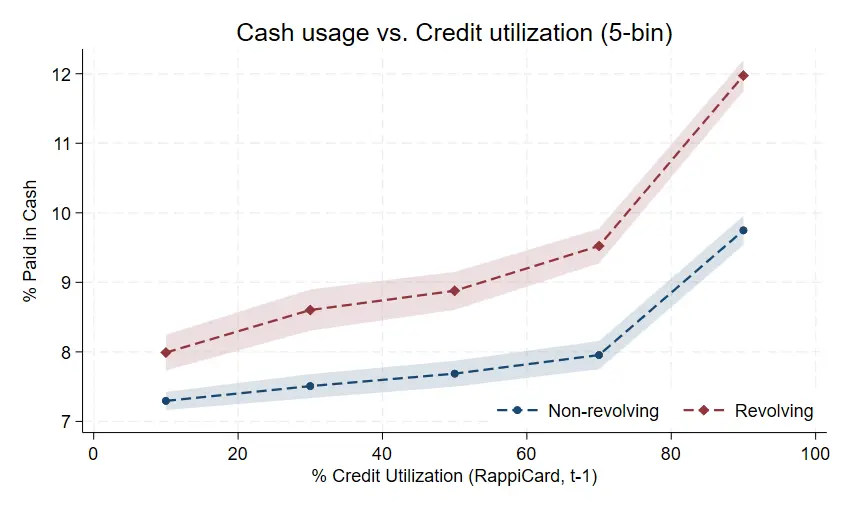
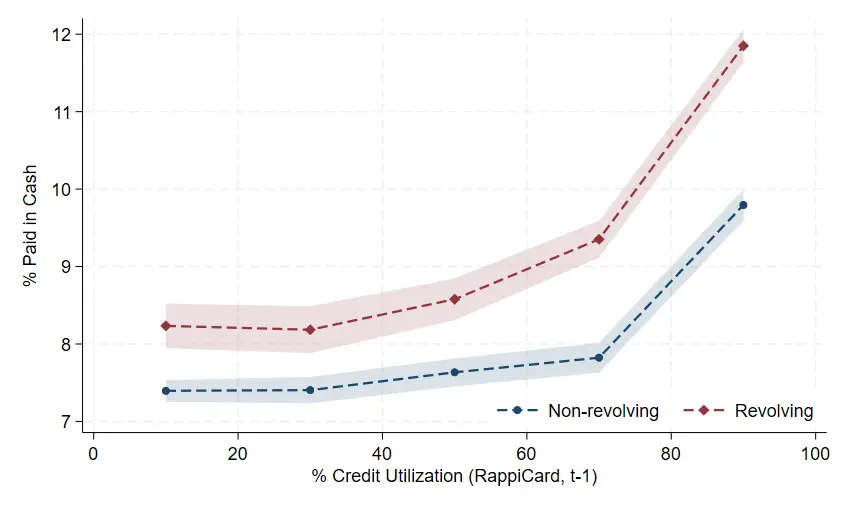
Deploying to gh-pages from @ dollyyu97/dollyyu97.github.io@ac47b05d9db43f17b30ad539ab090d605ccccb4a 🚀

diff --git a/research/index.html b/research/index.html
@@ -77,7 +77,7 @@
     margin-top: 2rem;
     margin-bottom: 1.5rem;
   }
-</style> <h2 class="research-section-title">Working Papers</h2> <div class="research-item"> <div class="research-text"> <h3>The Shadow Cost of Credit Utilization: Payment Choice and Liquidity Management <span class="jmp-badge">Job Market Paper</span> </h3> <div class="research-authors">with Jose Murillo</div> <details class="abstract"> <summary>Abstract</summary> <p>We study how a household's credit capacity shapes its choice between credit and cash payments. Linking 1.5 million transactions to households' real-time credit position, we find that cash usage rises in a convex pattern with credit utilization. This convexity is consistent with a precautionary mechanism: as credit capacity shrinks, the marginal value of available credit rises, driving up the cost of credit even for households that pay their balance in full. Households that carry a balance face an additional interest cost and use cash more often at every utilization level. Bank-initiated credit limit increases causally reduce cash usage. Inverting cash shares yields a monetary estimate of this cost: drawing down an additional dollar of credit costs 28 cents on average, half from the precautionary channel. Taken together, these results show that payment choice, conditioned on transaction-level credit position, directly measures the shadow cost of borrowing capacity.</p> </details> </div> <div class="research-fig"> <img src="/assets/img/papers/shadow_cost.png" alt="The Shadow Cost of Credit Utilization — key figure"> </div> </div> <div class="research-item"> <div class="research-text"> <h3>Fintech to the (Worker) Rescue? Earned Wage Access, Worker Welfare and Employee Retention</h3> <div class="research-authors">with Jose Murillo and Boris Vallée</div> <div class="research-note">Selected for the 2023 NBER Innovative Data in Household Finance, MFA 2026, and SGF 2026</div> <details class="abstract"> <summary>Abstract</summary> <p>We study the usage and welfare implications of earned wage access (EWA) using administrative and survey data from a Mexican FinTech provider. Adoption is significant, and usage concentrates at the end of the pay cycle. We develop a stationary buffer-stock framework, calibrated to the data, in which EWA provides liquidity insurance and consumption-timing alignment. Access is worth about 2.5% of a paycheck per year for the average user, and an order of magnitude more for impatient, low-liquidity workers. Automatic repayment makes these gains more robust to present bias than with revolving credit. EWA usage is associated with higher employee retention, as the framework implies.</p> </details> <div class="research-links"> <a href="https://ssrn.com/abstract=4067701" target="_blank" rel="noopener noreferrer"><i class="fa-solid fa-file-lines"></i> SSRN</a> </div> </div> <div class="research-fig"> <img src="/assets/img/papers/ewa.png" alt="Earned Wage Access — key figure"> </div> </div> <div class="research-item"> <div class="research-text"> <h3>Riding the Waves: Geographic Diversification and Bank Responses to Local Funding Shocks</h3> <div class="research-authors">with Wei Li and Mingmei Liu</div> <div class="research-award"> <i class="fa-solid fa-trophy"></i>Best Paper Award, The 8th Asia Conference on Business and Economic Studies</div> <div class="research-note">Selected for the 2025 EWMES and 2025 Sydney Banking and Financial Stability Conference</div> <details class="abstract"> <summary>Abstract</summary> <p>How resilient are banks to local funding shocks? We exploit a segment of Chinese wealth management products (WMPs) funded locally but backed by national assets, allowing us to isolate banks' strategic responses to local funding pressures. Using city-level inflation to characterize investor demand shifts, we find that banks pass through approximately 60% of these shocks to WMP yields. Large, geographically diversified banks respond more actively, by raising yields and contracting issuance in shock-hit markets more sharply than smaller banks. They then hedge by expanding the issuance of lower-yield WMPs in unaffected regions. Our findings reveal that for large banks, geographic diversification is not a tool for passive insulation but a mechanism enabling active, high-frequency liability management through their internal capital markets.</p> </details> </div> <div class="research-fig"> <img src="/assets/img/papers/wmp.png" alt="Riding the Waves — key figure"> </div> </div> <h2 class="research-section-title">Work in Progress</h2> <div class="research-item"> <div class="research-text"> <h3>The Economics of Rent-to-Own Housing</h3> <div class="research-authors">solo-authored</div> </div> </div> <div class="research-item"> <div class="research-text"> <h3>Mortgage Securitization and Housing Affordability</h3> <div class="research-authors">with Daojing Zhai</div> </div> </div> <h2 class="research-section-title">Other Writing</h2> <div class="research-item"> <div class="research-text"> <h3>A Case in Point: Shared Home Equity</h3> <div class="research-authors">with Boris Vallée, Daniel Green, and Sid Beaumaster</div> <div class="research-note">Harvard Business School Case 221-026</div> <div class="research-links"> <a href="https://hbsp.harvard.edu/product/221026-PDF-ENG" target="_blank" rel="noopener noreferrer"><i class="fa-solid fa-up-right-from-square"></i> HBS Publishing</a> </div> </div> </div> <div class="research-item"> <div class="research-text"> <h3>Seso Global: Building a Blockchain-enabled Property Marketplace in Nigeria</h3> <div class="research-authors">with Boris Vallée</div> <div class="research-note">Harvard Business School Case 220-055</div> <div class="research-links"> <a href="https://hbsp.harvard.edu/product/220055-PDF-ENG" target="_blank" rel="noopener noreferrer"><i class="fa-solid fa-up-right-from-square"></i> HBS Publishing</a> </div> </div> </div> </article> </div> </div> <footer class="fixed-bottom" role="contentinfo"> <div class="container mt-0"> © Copyright 2026 Dolly Yu (于洋). </div> </footer> <script>
+</style> <h2 class="research-section-title">Working Papers</h2> <div class="research-item"> <div class="research-text"> <h3>The Shadow Cost of Credit: Payment Choice and Credit Capacity <span class="jmp-badge">Job Market Paper</span> </h3> <div class="research-authors">with Jose Murillo</div> <details class="abstract"> <summary>Abstract</summary> <p>We study how a household's credit capacity shapes its choice between credit and cash payments. Linking 1.5 million transactions to households' daily credit position, we find that cash usage rises in a convex pattern with credit utilization. This convexity is consistent with available credit serving as a buffer against expenses that only credit can pay: as utilization grows, the marginal value of available credit increases, driving up the cost of credit even for households that pay their balance in full. Bank-initiated credit limit increases causally reduce cash usage. Inverting cash shares, we find that a dollar on credit carries a shadow cost of 5 cents at 20 percent utilization and 24 cents at 80 percent, close to the 25 cents of lifetime interest on a revolved dollar. Taken together, these results show that payment choice, conditioned on transaction-level credit position, directly measures the shadow cost of credit.</p> </details> </div> <div class="research-fig"> <img src="/assets/img/papers/shadow_cost.png" alt="The Shadow Cost of Credit — key figure"> </div> </div> <div class="research-item"> <div class="research-text"> <h3>Fintech to the (Worker) Rescue? Earned Wage Access, Worker Welfare and Employee Retention</h3> <div class="research-authors">with Jose Murillo and Boris Vallée</div> <div class="research-note">Selected for the 2023 NBER Innovative Data in Household Finance, MFA 2026, and SGF 2026</div> <details class="abstract"> <summary>Abstract</summary> <p>We study the usage and welfare implications of earned wage access (EWA) using administrative and survey data from a Mexican FinTech provider. Adoption is significant, and usage concentrates at the end of the pay cycle. We develop a stationary buffer-stock framework, calibrated to the data, in which EWA provides liquidity insurance and consumption-timing alignment. Access is worth about 2.5% of a paycheck per year for the average user, and an order of magnitude more for impatient, low-liquidity workers. Automatic repayment makes these gains more robust to present bias than with revolving credit. EWA usage is associated with higher employee retention, as the framework implies.</p> </details> <div class="research-links"> <a href="https://ssrn.com/abstract=4067701" target="_blank" rel="noopener noreferrer"><i class="fa-solid fa-file-lines"></i> SSRN</a> </div> </div> <div class="research-fig"> <img src="/assets/img/papers/ewa.png" alt="Earned Wage Access — key figure"> </div> </div> <div class="research-item"> <div class="research-text"> <h3>Riding the Waves: Geographic Diversification and Bank Responses to Local Funding Shocks</h3> <div class="research-authors">with Wei Li and Mingmei Liu</div> <div class="research-award"> <i class="fa-solid fa-trophy"></i>Best Paper Award, The 8th Asia Conference on Business and Economic Studies</div> <div class="research-note">Selected for the 2025 EWMES and 2025 Sydney Banking and Financial Stability Conference</div> <details class="abstract"> <summary>Abstract</summary> <p>How resilient are banks to local funding shocks? We exploit a segment of Chinese wealth management products (WMPs) funded locally but backed by national assets, allowing us to isolate banks' strategic responses to local funding pressures. Using city-level inflation to characterize investor demand shifts, we find that banks pass through approximately 60% of these shocks to WMP yields. Large, geographically diversified banks respond more actively, by raising yields and contracting issuance in shock-hit markets more sharply than smaller banks. They then hedge by expanding the issuance of lower-yield WMPs in unaffected regions. Our findings reveal that for large banks, geographic diversification is not a tool for passive insulation but a mechanism enabling active, high-frequency liability management through their internal capital markets.</p> </details> </div> <div class="research-fig"> <img src="/assets/img/papers/wmp.png" alt="Riding the Waves — key figure"> </div> </div> <h2 class="research-section-title">Work in Progress</h2> <div class="research-item"> <div class="research-text"> <h3>The Economics of Rent-to-Own Housing</h3> <div class="research-authors">solo-authored</div> </div> </div> <div class="research-item"> <div class="research-text"> <h3>Mortgage Securitization and Housing Affordability</h3> <div class="research-authors">with Daojing Zhai</div> </div> </div> <h2 class="research-section-title">Other Writing</h2> <div class="research-item"> <div class="research-text"> <h3>A Case in Point: Shared Home Equity</h3> <div class="research-authors">with Boris Vallée, Daniel Green, and Sid Beaumaster</div> <div class="research-note">Harvard Business School Case 221-026</div> <div class="research-links"> <a href="https://hbsp.harvard.edu/product/221026-PDF-ENG" target="_blank" rel="noopener noreferrer"><i class="fa-solid fa-up-right-from-square"></i> HBS Publishing</a> </div> </div> </div> <div class="research-item"> <div class="research-text"> <h3>Seso Global: Building a Blockchain-enabled Property Marketplace in Nigeria</h3> <div class="research-authors">with Boris Vallée</div> <div class="research-note">Harvard Business School Case 220-055</div> <div class="research-links"> <a href="https://hbsp.harvard.edu/product/220055-PDF-ENG" target="_blank" rel="noopener noreferrer"><i class="fa-solid fa-up-right-from-square"></i> HBS Publishing</a> </div> </div> </div> </article> </div> </div> <footer class="fixed-bottom" role="contentinfo"> <div class="container mt-0"> © Copyright 2026 Dolly Yu (于洋). </div> </footer> <script>
   window.alFolio = {
     compatBootstrap: false
   };

diff --git a/publications/index.html b/publications/index.html
@@ -8,8 +8,8 @@
   <span class="na">year</span> <span class="p">=</span> <span class="s">{2026}</span><span class="p">,</span>
   <span class="na">note</span> <span class="p">=</span> <span class="s">{Selected for the 2023 NBER Innovative Data in Household Finance, MFA 2026, and SGF 2026}</span><span class="p">,</span>
   <span class="na">doi</span> <span class="p">=</span> <span class="s">{10.2139/ssrn.4067701}</span><span class="p">,</span>
-<span class="p">}</span></code></pre></figure> </div> </div> </div> </li> <li> <div class="row"> <div class="col col-sm-2 abbr"> </div> <div id="yu2024creditlimit" class="col-sm-8"> <div class="title">The Shadow Cost of Credit Utilization: Payment Choice and Liquidity Management</div> <div class="author"> <em>Dolly Yu</em> and <a href="https://www.primero.ai" rel="external nofollow noopener" target="_blank">Jose Murillo</a> </div> <div class="periodical"> 2026 </div> <div class="periodical"> </div> <div class="links"> <a class="abstract btn btn-sm z-depth-0" role="button">Abs</a> <a class="bibtex btn btn-sm z-depth-0" role="button">Bib</a> </div> <div class="abstract hidden"> <p>We study how a household’s credit capacity shapes its choice between credit and cash payments. Linking 1.5 million transactions to households’ real-time credit position, we find that cash usage rises in a convex pattern with credit utilization. This convexity is consistent with a precautionary mechanism: as credit capacity shrinks, the marginal value of available credit rises, driving up the cost of credit even for households that pay their balance in full. Households that carry a balance face an additional interest cost and use cash more often at every utilization level. Bank-initiated credit limit increases causally reduce cash usage. Inverting cash shares yields a monetary estimate of this cost: drawing down an additional dollar of credit costs 28 cents on average, half from the precautionary channel. Taken together, these results show that payment choice, conditioned on transaction-level credit position, directly measures the shadow cost of borrowing capacity.</p> </div> <div class="bibtex hidden"> <figure class="highlight"><pre><code class="language-bibtex" data-lang="bibtex"><span class="nc">@unpublished</span><span class="p">{</span><span class="nl">yu2024creditlimit</span><span class="p">,</span>
-  <span class="na">title</span> <span class="p">=</span> <span class="s">{The Shadow Cost of Credit Utilization: Payment Choice and Liquidity Management}</span><span class="p">,</span>
+<span class="p">}</span></code></pre></figure> </div> </div> </div> </li> <li> <div class="row"> <div class="col col-sm-2 abbr"> </div> <div id="yu2024creditlimit" class="col-sm-8"> <div class="title">The Shadow Cost of Credit: Payment Choice and Credit Capacity</div> <div class="author"> <em>Dolly Yu</em> and <a href="https://www.primero.ai" rel="external nofollow noopener" target="_blank">Jose Murillo</a> </div> <div class="periodical"> 2026 </div> <div class="periodical"> </div> <div class="links"> <a class="abstract btn btn-sm z-depth-0" role="button">Abs</a> <a class="bibtex btn btn-sm z-depth-0" role="button">Bib</a> </div> <div class="abstract hidden"> <p>We study how a household’s credit capacity shapes its choice between credit and cash payments. Linking 1.5 million transactions to households’ daily credit position, we find that cash usage rises in a convex pattern with credit utilization. This convexity is consistent with available credit serving as a buffer against expenses that only credit can pay: as utilization grows, the marginal value of available credit increases, driving up the cost of credit even for households that pay their balance in full. Bank-initiated credit limit increases causally reduce cash usage. Inverting cash shares, we find that a dollar on credit carries a shadow cost of 5 cents at 20 percent utilization and 24 cents at 80 percent, close to the 25 cents of lifetime interest on a revolved dollar. Taken together, these results show that payment choice, conditioned on transaction-level credit position, directly measures the shadow cost of credit.</p> </div> <div class="bibtex hidden"> <figure class="highlight"><pre><code class="language-bibtex" data-lang="bibtex"><span class="nc">@unpublished</span><span class="p">{</span><span class="nl">yu2024creditlimit</span><span class="p">,</span>
+  <span class="na">title</span> <span class="p">=</span> <span class="s">{The Shadow Cost of Credit: Payment Choice and Credit Capacity}</span><span class="p">,</span>
   <span class="na">author</span> <span class="p">=</span> <span class="s">{Yu, Dolly and Murillo, Jose}</span><span class="p">,</span>
   <span class="na">year</span> <span class="p">=</span> <span class="s">{2026}</span><span class="p">,</span>
 <span class="p">}</span></code></pre></figure> </div> </div> </div> </li> <li> <div class="row"> <div class="col col-sm-2 abbr"> </div> <div id="yu2024ridingwaves" class="col-sm-8"> <div class="title">Riding the Waves: Geographic Diversification and Bank Responses to Local Funding Shocks</div> <div class="author"> <em>Dolly Yu</em>, <a href="https://www.uibe.edu.cn" rel="external nofollow noopener" target="_blank">Wei Li</a>, and <a href="https://www.jnu.edu.cn" rel="external nofollow noopener" target="_blank">Mingmei Liu</a> </div> <div class="periodical"> 2026 </div> <div class="periodical"> Selected for the 2025 EWMES and 2025 Sydney Banking and Financial Stability Conference </div> <div class="links"> <a class="abstract btn btn-sm z-depth-0" role="button">Abs</a> <a class="bibtex btn btn-sm z-depth-0" role="button">Bib</a> </div> <div class="abstract hidden"> <p>We exploit a segment of Chinese wealth management products (WMP) to isolate demand-side funding shocks from asset-side considerations, documenting a 60% pass-through of local inflation shocks to yields. We demonstrate that large banks’ geographic footprint enables active, high-frequency liability reallocation across regions via internal capital markets, with greater yield response than smaller banks and significant cross-regional hedging behavior.</p> </div> <div class="bibtex hidden"> <figure class="highlight"><pre><code class="language-bibtex" data-lang="bibtex"><span class="nc">@unpublished</span><span class="p">{</span><span class="nl">yu2024ridingwaves</span><span class="p">,</span>
